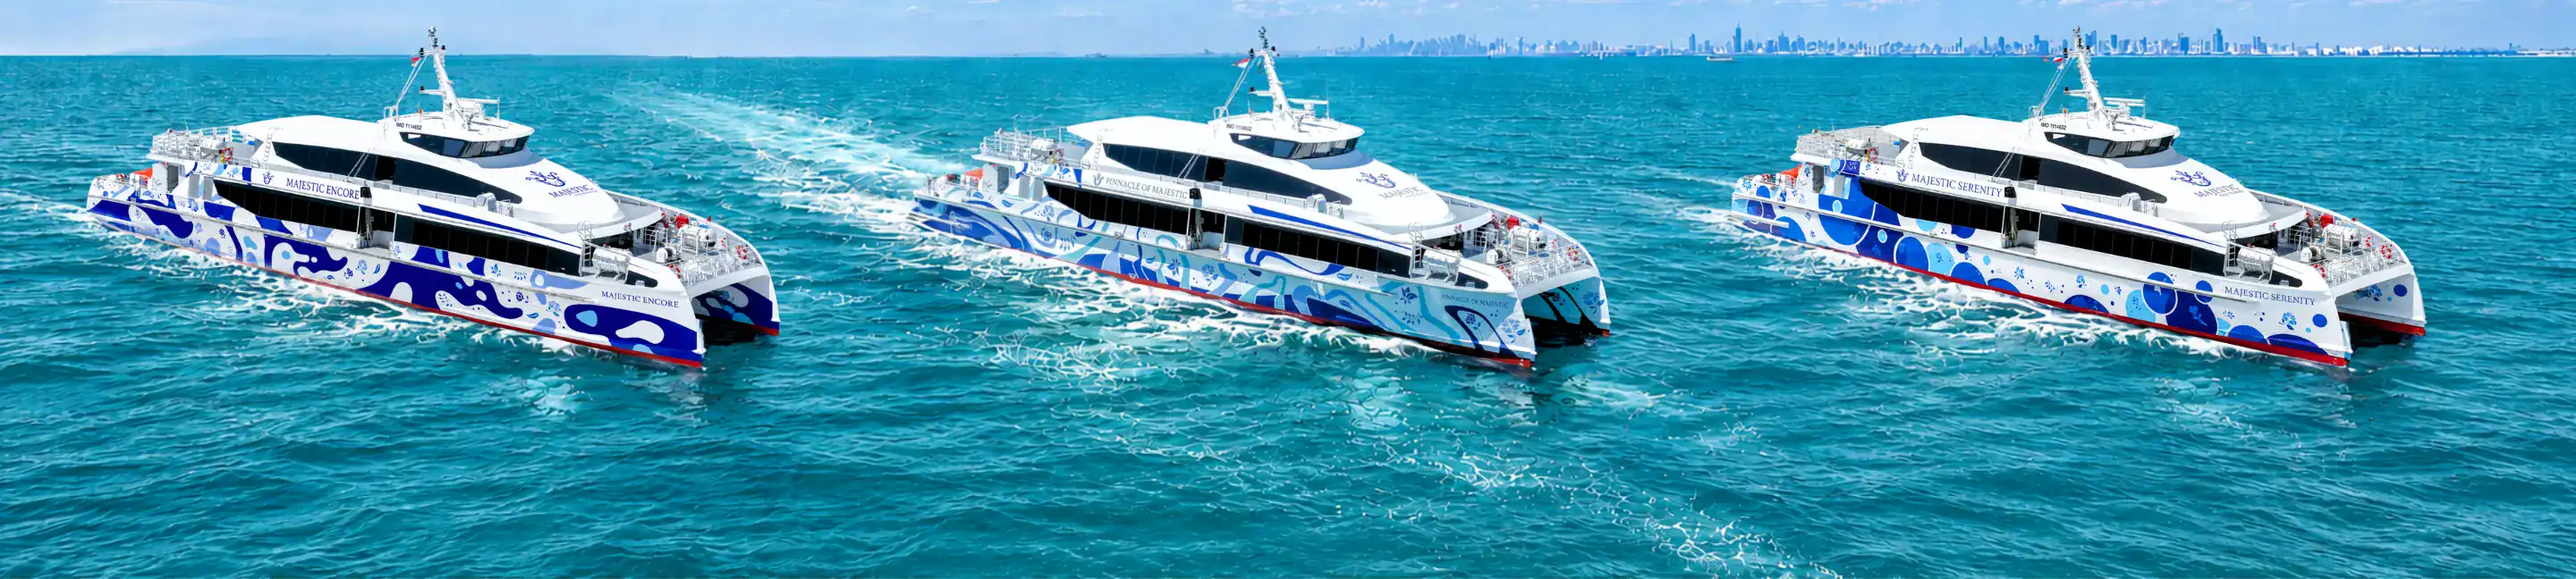
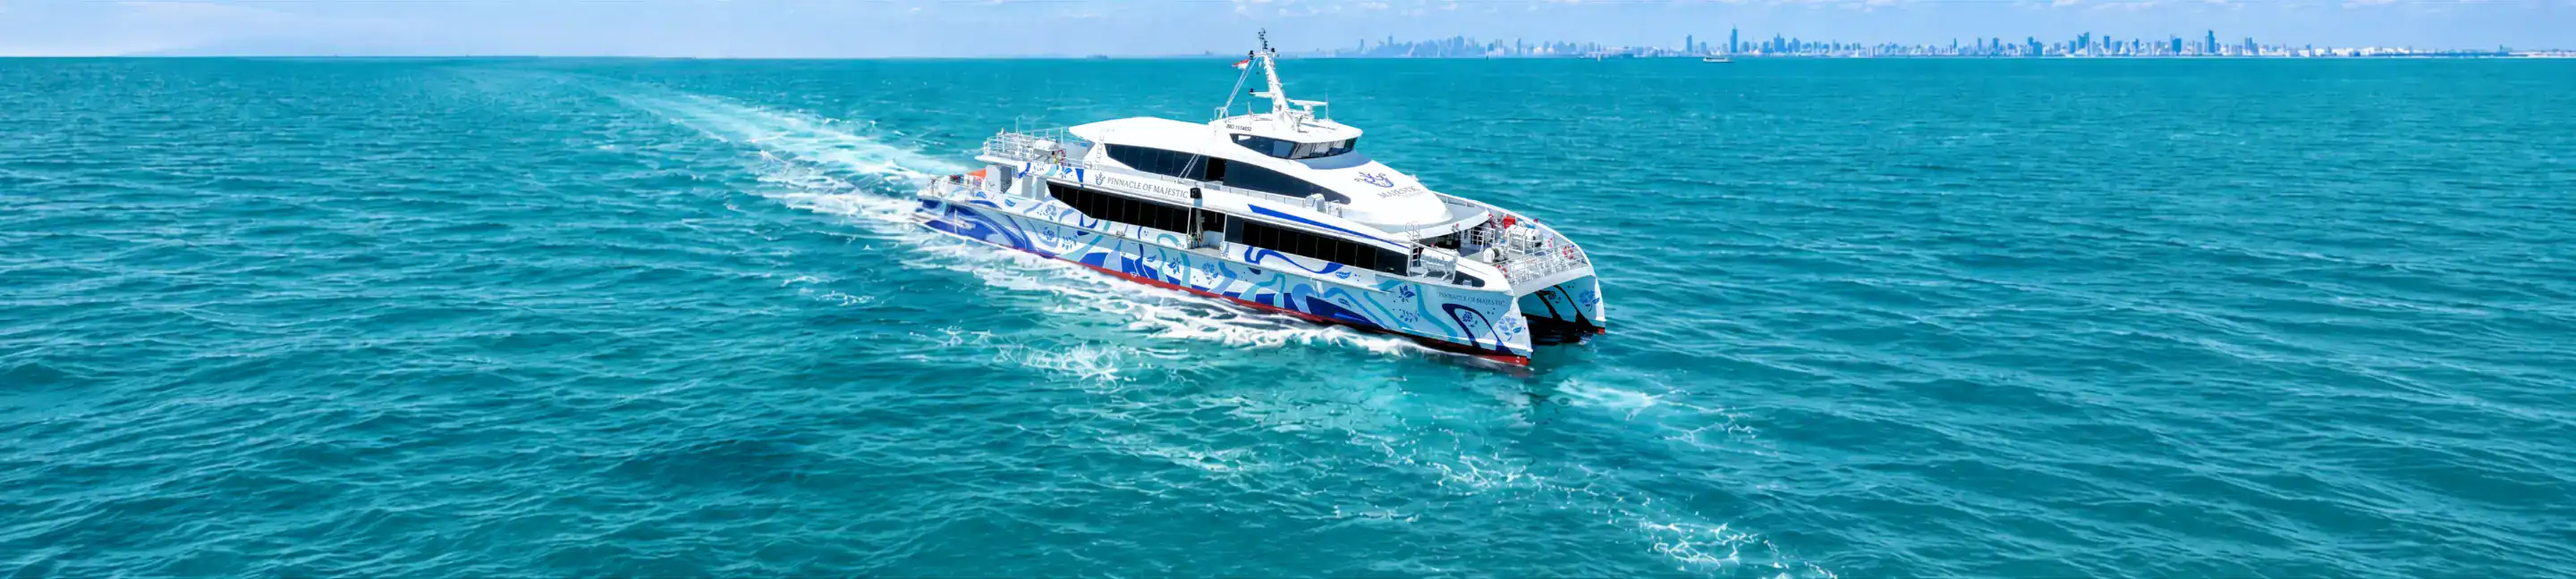
feat & fix: did several thing as following:
- changed majestic and nusa indah hero images
- changed majestic product image, and added several image of serenity fleet
- create webhookController for yokke api

diff --git a/src/controllers/webhookController.js b/src/controllers/webhookController.js
@@ -1,0 +1,109 @@
+const crypto = require('crypto');
+const db = require('../config/db');
+const { getOrderById, updateOrderPaymentStatus } = require('../models/orderModel');
+
+const SECRET_KEY = process.env.YOKKE_SECRET_KEY;
+
+const computeValidateSignature = (signatureHeader) => {
+    const [signature, timestamp] = (signatureHeader || '').split(';');
+    return crypto
+        .createHash('md5')
+        .update(SECRET_KEY + signature + timestamp)
+        .digest('hex');
+}
+
+// Secret Code
+const generateCode = (prefix) => {
+    return prefix + crypto.randomBytes(4).toString('hex').toUpperCase();
+}
+
+// Get DB orderId
+const parseDbOrderId = (yokkeOrderId = '') => {
+    const parts = yokkeOrderId.split('-');
+    return parseInt(parts.at(-1)) || null;
+};
+
+const handleWebhook = async (req, res) => {
+    const signatureHeader = req.headers['signature'] || '';
+    const validateSignature = computeValidateSignature(signatureHeader);
+    const body = req.body;
+    const type = body?.type;
+
+    // Validate payment
+    if (type === 'payment.validate') {
+        const dbOrderId = parseDbOrderId(body?.inquiry?.order?.id);
+
+        if (!dbOrderId) {
+            return res.json({ status: 'nok', validateSignature, inquiry: {} });
+        }
+
+        const order = await getOrderById(dbOrderId);
+        if (!order) {
+            return res.json({ status: 'nok', validateSignature, inquiry: {} });
+        }
+
+        return res.json({ status: 'ok', validateSignature, inquiry: {} })
+    }
+
+    // Payment received
+    if (type === 'payment.received') {
+        const dbOrderId = parseDbOrderId(body?.inquiry?.order?.id);
+        const txStatus = body?.transaction?.status;
+        const inquiryStatus = body?.inquiry?.status;
+
+        if (dbOrderId && txStatus === 'captured' && inquiryStatus === 'paid') {
+            try {
+                await updateOrderPaymentStatus(dbOrderId, {
+                    status: 'paid',
+                    paymentStatus: 'paid',
+                    transactionId: body?.transaction?.id,
+                    authCode: body?.transaction?.authorizationCode,
+                    maskedCard: body?.transaction?.paymentSourceData?.cardNumber
+                });
+
+                // Generate Secret Code
+                const order = await getOrderById(dbOrderId);
+                const isFerry = order?.notes === 'ferry';
+
+                if (!isFerry) {
+                    const itemRes = await db.query(
+                        `SELECT id FROM ota.order_items WHERE order_id = $1 LIMIT 1`,
+                        [dbOrderId]
+                    );
+
+                    const orderItemId = itemRes.rows[0]?.id;
+
+                    if (orderItemId) {
+                        const referenceId = generateCode('REF-');
+                        const secretCode = generateCode('SC-');
+                        await db.query(
+                            `
+                                INSERT INTO ota.secret_codes(order_item_id, reference_id, secret_code, is_used)
+                                VALUES ($1, $2, $3, false);
+                            `,
+                            [orderItemId, referenceId, secretCode]
+                        );
+                    }
+                }
+
+                // Call majestic service here later to generate ticket
+            } catch (err) {
+                console.error('[WEBHOOK] payment.received error:', err.message);
+            }
+        } else if (txStatus === 'declined' || txStatus === 'failed') {
+            if (dbOrderId) {
+                await updateOrderPaymentStatus(dbOrderId, {
+                    status: 'failed',
+                    paymentStatus: 'failed'
+                });
+            }
+        }
+
+        return res.json({ status: 'ok', validateSignature });
+    }
+
+    // Unkown event, and reply ok to prevent any retries
+    return res.json({ status: 'ok', validateSignature });
+}
+
+module.exports = { handleWebhook };

diff --git a/src/controllers/productController.js b/src/controllers/productController.js
@@ -4,6 +4,9 @@ const { getCarRentalListings, getCarRentalById, getPackagesByProductIds, getCarR
 
 const { getFerryCheckout } = require('./ferryController');
 
+const { createOrder } = require('../models/orderModel');
+const { createInquiry } = require('../services/yokkeService');
+
 const getCarRentals = async (req, res) => {
   const {
     'driver-needs': driverNeeds,
@@ -402,4 +405,63 @@ const saveDraftOrder = (req, res) => {
   }
 }
 
-module.exports = { getCarRentals, getCarRentalDetail, getActivities, getActivitiesDetail, getCheckoutPage, saveDraftOrder };
+const confirmCheckout = async (req, res) => {
+  try {
+    const draftOrder = req.session.draftOrder;
+    const user = req.session.user;
+
+    if (!draftOrder || !user) return res.redirect('/');
+
+    const { grandTotal, basePrice, taxAmount, platformFee, filteredGrandTotal, filteredBasePrice } = draftOrder;
+    const finalTotal = Math.round(grandTotal || filteredGrandTotal || 0);
+    const finalBase = Math.round(basePrice || filteredBasePrice || 0);
+    const finalTax = Math.round(taxAmount || 0);
+    const finalFee = Math.round(platformFee || parseInt(process.env.PLATFORM_FEE) || 5000);
+    
+    const orderId = await createOrder({
+      userId: user.id,
+      draftOrder,
+      basePrice: finalBase,
+      taxAmount: finalTax,
+      platformFee: finalFee,
+      grandTotal: finalTotal 
+    });
+
+    const yokkeOrderId = `MT-${draftOrder.productType?.toUpperCase()}-${orderId}`;
+
+    const itemName = draftOrder.productType === 'ferry' 
+      ? `Ferry ${draftOrder.fromPort} → ${draftOrder.toPort}`
+      : draftOrder.productType === 'activities' 
+      ? `Activities Booking #${orderId}`
+      : `Car Rental booking #${orderId}`;
+
+    const inquiry = await createInquiry({
+      orderId: yokkeOrderId,
+      amount: finalTotal,
+      itemName,
+      quantity: 1,
+      customer: {
+        name: user.full_name,
+        email: user.email
+      }
+    });
+
+    req.session.pendingPayment = {
+      orderId,
+      yokkeOrderId,
+      inquiryId: inquiry.id,
+      checkoutUrl: inquiry.urls?.checkout
+    };
+
+    const { updateOrderPaymentStatus } = require('../models/orderModel');
+    
+    await updateOrderPaymentStatus(orderId, { inquiryId: inquiry.id });
+
+    return res.redirect(inquiry.urls.checkout);
+  } catch (err) {
+    console.error('[CHECKOUT] Confirm error:', err.message);
+    return res.redirect('/products/checkout?error=payment_failed');
+  }
+}
+
+module.exports = { getCarRentals, getCarRentalDetail, getActivities, getActivitiesDetail, getCheckoutPage, saveDraftOrder, confirmCheckout};

diff --git a/src/services/yokkeService.js b/src/services/yokkeService.js
@@ -1,22 +1,24 @@
 const axios = require('axios');
+
 const BASE_URL = process.env.YOKKE_BASE_URL;
 const CLIENT_ID = process.env.YOKKE_CLIENT_ID;
 const CLIENT_SECRET = process.env.YOKKE_CLIENT_SECRET;
 const API_KEY = process.env.YOKKE_API_KEY;
+const APP_BASE_URL = process.env.APP_BASE_URL;
 
-// === TOKEN CACHE ===
 // Max 3 token requests/minute
 let _cachedToken = null;
 let _tokenExpiresAt = 0;
+
 const getAccessToken = async () => {
     const now = Date.now();
-    // Refresh 60 seconds before expiry
     if (_cachedToken && now < _tokenExpiresAt - 60000) {
         return _cachedToken;
     }
     const credentials = Buffer.from(`${CLIENT_ID}:${CLIENT_SECRET}`).toString('base64');
+    
     const res = await axios.post(
-        `${BASE_URL}/api/v1/oauth/token`,
+        `${BASE_URL}/gateway/IPGAPI/v1/token`,
         'grant_type=client_credentials',
         {
             headers: {
@@ -26,19 +28,26 @@ const getAccessToken = async () => {
         }
     );
     _cachedToken = res.data.access_token;
-    _tokenExpiresAt = now + (res.data.expires_in * 1000);
+    _tokenExpiresAt = now + (res.data.expires_in * 1000)
     return _cachedToken;
-};
-const createInquiry = async ({ orderId, amount, description, referenceUrl }) => {
+}
+
+const createInquiry = async ({ orderId, amount, itemName, quantity, customer }) => {
     const token = await getAccessToken();
     const res = await axios.post(
-        `${BASE_URL}/api/v1/inquiries`,
+        `${BASE_URL}/gateway/IPGAPI/v1/inquiries`,
         {
+            amount,
+            currency: 'IDR',
+            referenceUrl: `${APP_BASE_URL}/products/checkout/result?orderId=${orderId}`,
             order: {
                 id: orderId,
-                amount,
-                description,
-                referenceUrl
+                items: [{ name: itemName, quantity, amount }]
+            },
+            customer: {
+                name: customer.name,
+                email: customer.email || '',
+                language: 'id'
             }
         },
         {
@@ -48,7 +57,8 @@ const createInquiry = async ({ orderId, amount, description, referenceUrl }) => 
                 'Content-Type': 'application/json'
             }
         }
-    );
+    )
     return res.data;
-};
-module.exports = { getAccessToken, createInquiry };
+}
+
+module.exports = {getAccessToken, createInquiry};

diff --git a/server.js b/server.js
@@ -13,6 +13,7 @@ const productRoutes = require('./src/routes/productRoutes');
 const userRoutes = require('./src/routes/userRoutes');
 const contactController = require('./src/controllers/contactController');
 const ferryRoutes = require('./src/routes/ferryRoutes');
+const webhookController = require('./src/controllers/webhookController');
 
 // Variable
 const app = express();
@@ -74,6 +75,7 @@ app.use('/ferry', ferryRoutes);
 app.get('/about', (req, res) => res.render('pages/about'));
 app.get('/contact', contactController.renderContactPage);
 app.post('/contact/send', contactController.sendMessage);
+app.post('/api/webhook/yokke', webhookController.handleWebhook);
 app.use((req, res) => {
   res.status(404).render('pages/404', { message: 'Page not found.' });
 });

diff --git a/src/routes/productRoutes.js b/src/routes/productRoutes.js
@@ -1,8 +1,10 @@
 const express = require('express');
 const router = express.Router();
-const { getCarRentals, getCarRentalDetail, getActivities, getActivitiesDetail, getCheckoutPage, saveDraftOrder } = require('../controllers/productController');
+const { getCarRentals, getCarRentalDetail, getActivities, getActivitiesDetail, getCheckoutPage, saveDraftOrder, confirmCheckout } = require('../controllers/productController');
 
 router.post('/checkout/draft', saveDraftOrder);
+
+router.post('/checkout/confirm', confirmCheckout);
 
 router.get('/car-rental', getCarRentals);
 

diff --git a/public/css/pages/home.css b/public/css/pages/home.css
@@ -379,7 +379,7 @@
 .top-hotels,
 .top-destinations,
 .popular-attractions {
-  margin: 3rem 1rem;
+  margin: 5rem 1rem;
 }
 
 .exclusive-deals,
